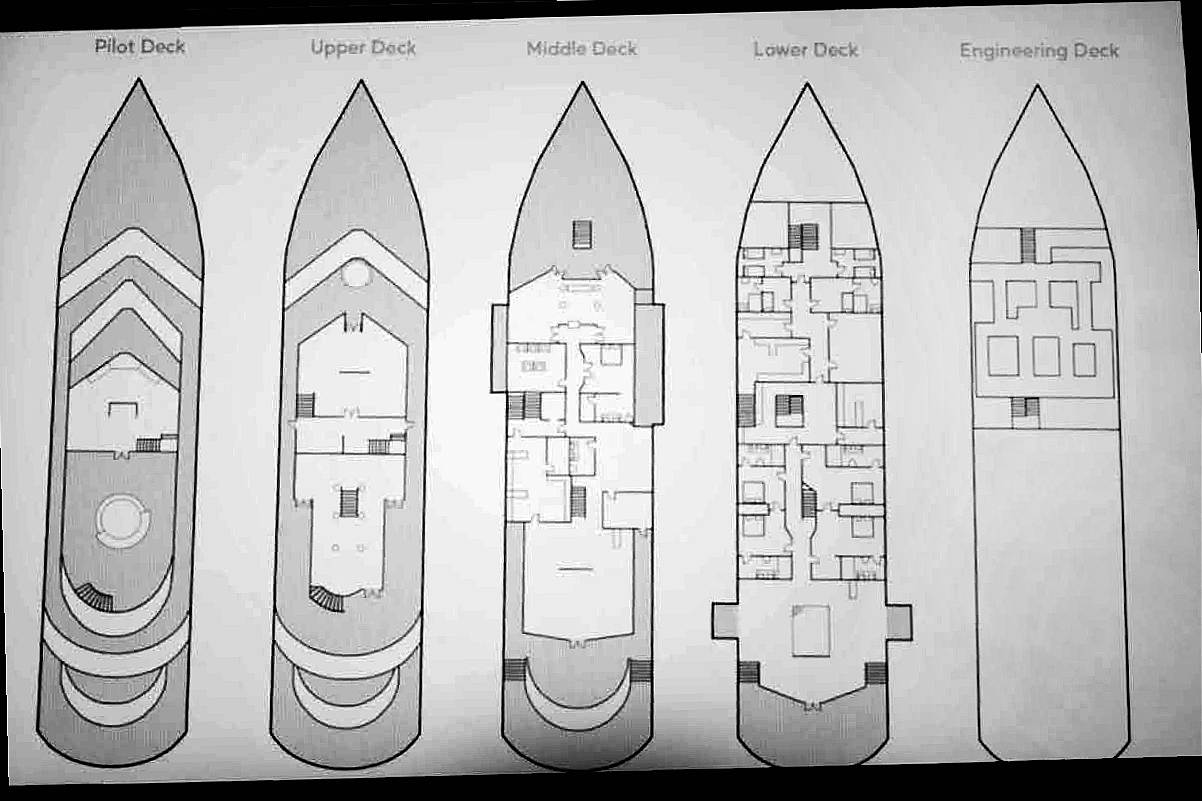
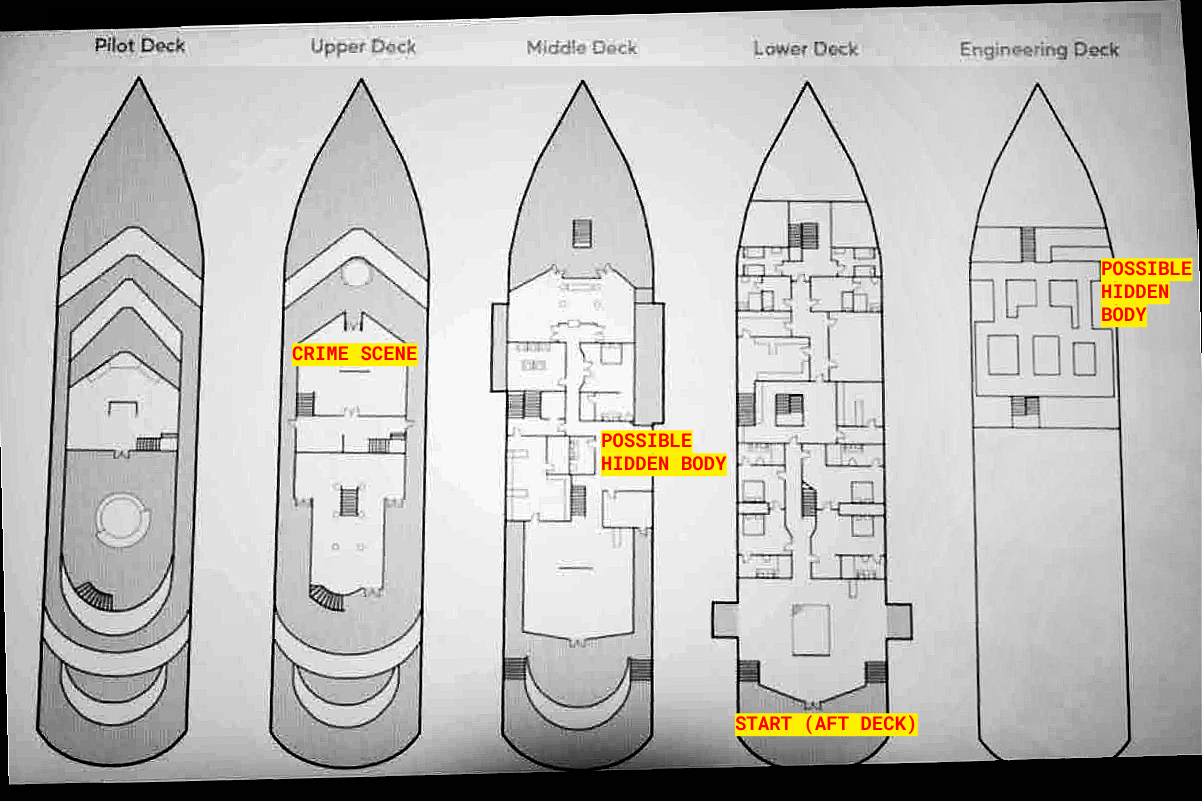
x
x

diff --git a/ron/ron.html b/ron/ron.html
@@ -1077,8 +1077,9 @@
                     </div>
                 </div>
                 <div class="tips-text text-slate-300 leading-relaxed">
-                    <li>2 soft objectives - varrying spawn:</li>
-                    <p class="mb-3">As you start - go up to the main deck and there will be a big guest room, after which a staircase and a number of doors - from some of the rooms, including kitchen, you may access the other rooms through the doors with transparent plastic strips (aka "plastic curtains"), you probably seen these in some restaurants or in storage areas, in one of those rooms will be a body. Can also be randomly in the opening at the machinery (engine) room at lower deck. (Different spawns)</p>
+                    <li>2 soft objectives:</li>
+<p class="mb-3">There is a static (always in the same place) crime scene (blood pool) on the UPPER DECK (check map). The other soft objective, the 'Hidden Body', can spawn in three different locations: either near the Middle Deck kitchen’s adjacent rooms or on the lowest engineering deck. (In summary, the Hidden Body can spawn in three locations, while the Crime Scene always spawns in the same place.) </p>
+<li>Sah'id is the suspect wearing traditional clothing.</li>
                 </div>
             </section>
 
